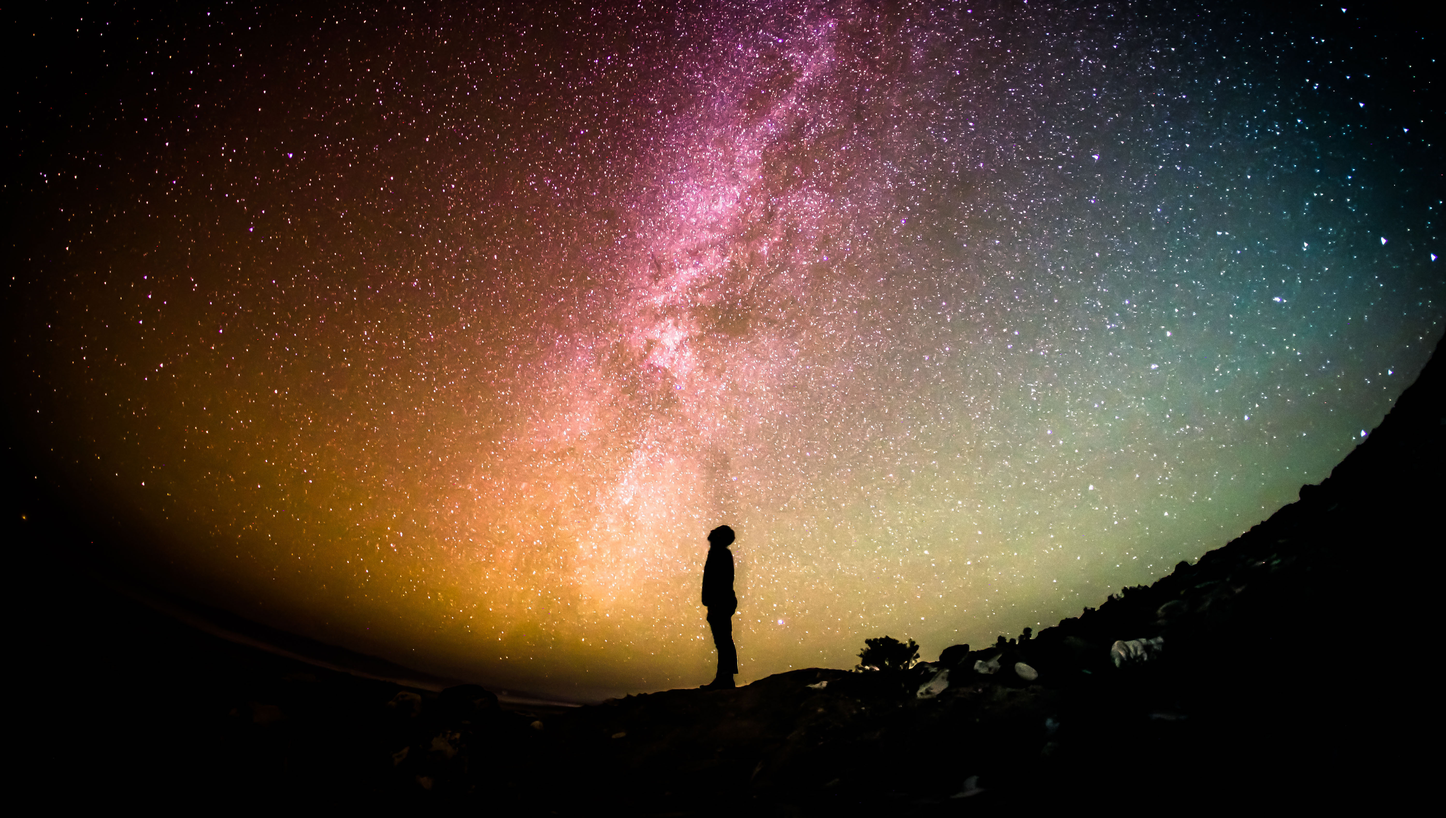
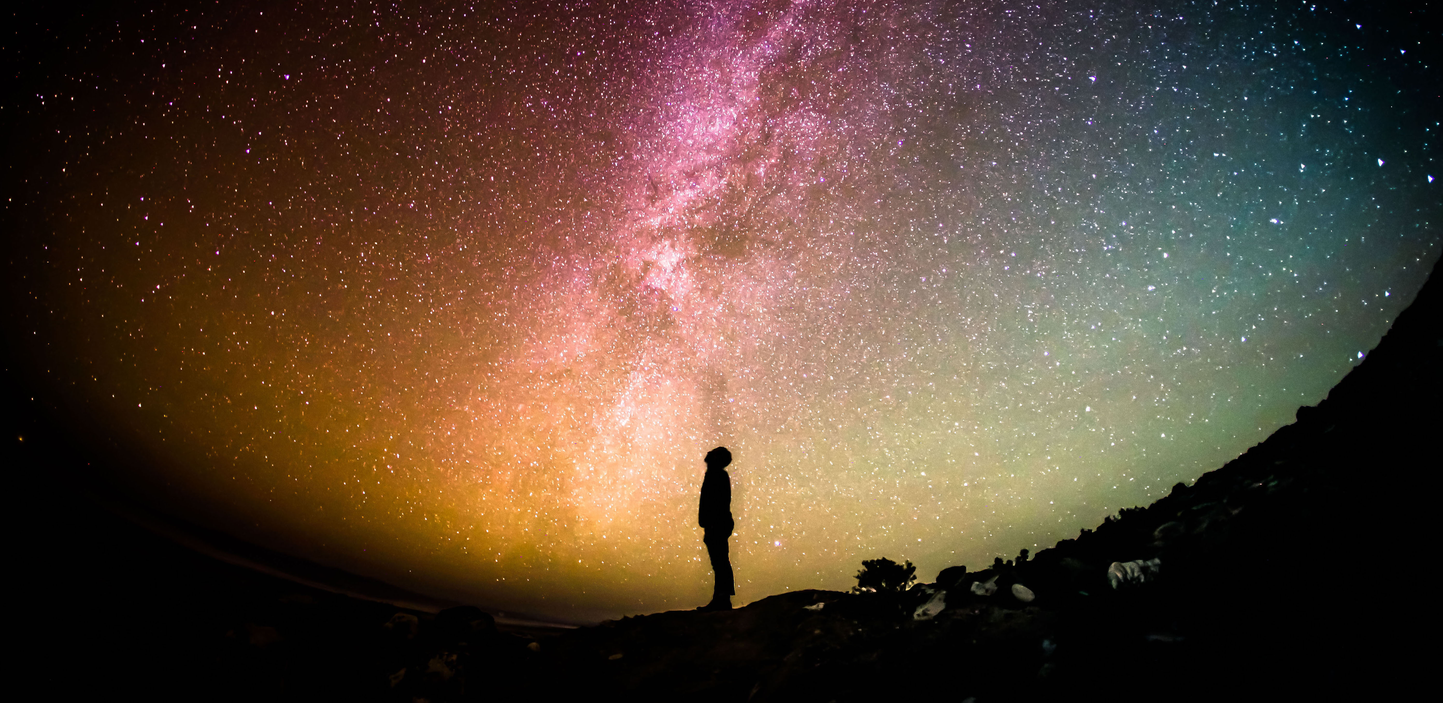
Change tempest picture and add midsummer styling

Changed region(s): [[0.1874, 0.0, 0.9684, 0.8969], [0.9059, 0.3402, 1.0, 0.5876], [0.8434, 0.5876, 0.9059, 0.6495]]

diff --git a/index.html b/index.html
@@ -2,6 +2,12 @@
 <head>
   <meta charset="utf-8">
   <title>Shakespeare/Google Fonts Project</title>
+  <!--fonts for midsummer -->
+  <link href='https://fonts.googleapis.com/css?family=Dancing+Script:400,700' rel='stylesheet' type='text/css'>
+  <link href='https://fonts.googleapis.com/css?family=EB+Garamond' rel='stylesheet' type='text/css'>
+
+
+
   <link rel="stylesheet" href="css.css">
 </head>
 <body>
@@ -13,26 +19,32 @@
     </section>
   </div>
 
-   <div>
-    <section id="section-midsummer" class="container">
-      <h1>A Midsummer Night's Dream</h1>
-      <p>Over hill, over dale, thorough bush, thorough brier, over park, over pale, thorough flood, thorough fire. I do wander everywhere swifter than the moon's sphere.</p>
-    </section>
-  </div>
 
-   <div>
-    <section id="section-tempest" class="container">
+  <section id="section-midsummer">
+    <div class="container">
+      <h1>A Midsummer Night's Dream</h1>
+      <p>Over hill, over dale,<br>
+        Thorough bush, thorough brier,<br>
+        Over park, over pale, <br>
+        Thorough flood, thorough fire. <br>
+        I do wander everywhere <br>
+        swifter than the moon's sphere.</p>
+    </div>
+  </section>
+
+  <section id="section-tempest">
+    <div class="container">
       <h1>The Tempest</h1>
       <p>And like the baseless fabric of this vision, the cloud-capped towers, the gorgeous palaces, The solemn temples, the great globe itself- Yea, all which it inherit—shall dissolve, And like this insubstantial pageant faded, leave not a rack behind. We are such stuff as dreams are made on, and our little life is rounded with a sleep.</p>
-    </section>
-  </div>
+    </div>
+  </section>
 
-  <div>
-    <section id="section-measure" class="container">
+  <section id="section-measure">
+    <div class="container">
       <h1>Measure for Measure</h1>
       <p>O, it is excellent to have a giant's strength, but it is tyrannous to use it like a giant.</p>
-    </section>
-  </div>
+    </div>
+  </section>
 
 </body>
 </html>

diff --git a/css.css b/css.css
@@ -1,6 +1,7 @@
 body {
   margin: 0;
   padding: 0;
+  font: 10px;
 }
 
 h1, h2, p {
@@ -8,6 +9,9 @@ h1, h2, p {
   padding: 0;
 }
 
+.container {
+  width: 960px; margin: 0 auto;
+}
 
 #section-tempest {
   background: url(images/tempest.jpeg) no-repeat;
@@ -27,5 +31,24 @@ h1, h2, p {
   background: url(images/midsummer.jpeg) no-repeat;
   background-size: cover;
   height: 100%;
-
+  position: relative;
 }
+
+  #section-midsummer .container {
+    position: absolute;
+    margin: 15% 10% ;
+  }
+
+  #section-midsummer h1 {
+    font-family: 'Dancing Script', cursive;
+    font-weight: 700;
+    color: white;
+    font-size: 2.7em;
+  }
+
+  #section-midsummer p {
+    font-family: 'EB Garamond', serif;
+    color: white;
+    font-size: 1.1em;
+    margin-top: 8%;
+  }
